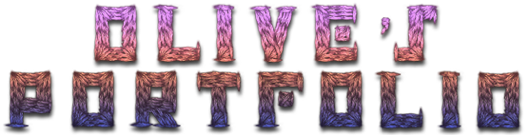
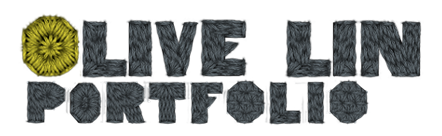
olive's design changes

diff --git a/app/assets/javascripts/galleries/view.js b/app/assets/javascripts/galleries/view.js
@@ -1,13 +1,25 @@
+var thumbnails = [];
+
 $(document).ready(function() {
+  //position album divs
+
+
   $(".album .thumbnail").hover(
     function () {
+      var preloads = $(this).attr('data-thumbnails').split(',');
+
+      for(var x=0;x<preloads.length;x++) {
+          thumbnails[x] = new Image()
+          thumbnails[x].src = preloads[x]
+      }
+
       //create dividers
       var numphotos = $(this).parent().attr('numphotos');
       var width = $(this).find('img').width()/numphotos;
       var height = $(this).height();
       console.log('style="height:'+height+'px;width:'+width+'px;');
       for (i=0; i<numphotos; i++) {
-        $(this).append('<div id="'+i+'" class="divider" onclick="" onmouseover="divider_hover($(this));" style="float:left;position:absolute; top:'+$(this).position().top+'px; left:'+(width*i+$(this).position().left)+'px; height:'+height+'px;width:'+width+'px;"></div>');
+        $(this).append('<div id="'+i+'" class="divider" onclick="window.location=$(this).parent().siblings(\'a\').attr(\'href\');" onmouseover="divider_hover($(this));" style="float:left;position:absolute; top:'+$(this).position().top+'px; left:'+(width*i+$(this).position().left)+'px; height:'+height+'px;width:'+width+'px;"></div>');
       }
     }, 
     function () {
@@ -21,10 +33,12 @@ $(document).ready(function() {
 
 function divider_hover(divider) {
     var divider_id = divider.attr('id');
-    var album_thumb = divider.parent().find('img');
+    var album_border = divider.siblings('.border');
+    console.log(album_border);
+    var album_thumb = album_border.find('img');
     var numphotos = divider.parent().parent().attr('numphotos');
-    var thumbnails = divider.parent().attr('data-thumbnails').split(',');
-    console.log(divider_id);
-    album_thumb.attr('src', thumbnails[divider_id]);
-    album_thumb.css('top', (divider.height()/2)-(album_thumb.height()/2));
+    album_thumb.stop(true, true).fadeTo(0, 0.6);
+    album_thumb.attr('src', thumbnails[divider_id].src);
+    album_border.css('top', (divider.height()/2)-(album_thumb.height()/2));
+    album_thumb.fadeTo(800, 1);
   }

diff --git a/app/assets/stylesheets/application.css b/app/assets/stylesheets/application.css
@@ -11,20 +11,31 @@
  *= require_self
  *= require_tree .
  */
-body {
-  background: rgb(255, 255, 255) url(bg.jpg) repeat scroll top left;
-  margin: 0pt;
+
+ p#contact {
+  margin-left: 100px;
+  padding-top: 32px;
+  clear:both;
+  color: rgb(55, 58, 60);
+  font-family: 'Julius Sans One', sans-serif;
+  font-size: 9pt;
+ }
+
+img#title {
+  margin-left:32px;
+  margin-bottom: 10px;
 }
 
 div#body {
-  width: 980px;
-
+  width: 1070px;
+  height: 100%;
   margin-left: auto;
   margin-right: auto;
 }
 
 div#main {
-  background: rgb(255, 255, 255) url(texture.jpg) repeat scroll top left;
+  width: 100%;
+  background: rgb(226, 227, 206) repeat scroll top left;
   overflow: hidden;
   word-wrap: break-word;
   text-align: left;
@@ -32,10 +43,11 @@ div#main {
   margin-bottom: 4px;
   -moz-border-radius: 15px;
   border-radius: 15px;
-  padding: 2%;
+  padding-top: 16%;
+  padding-bottom: 150px;
   color: rgb(192, 188, 155);
-  font-family: 'HoeflerText-Black', 'Hoefler Text', 'Times New Roman', serif;
-  font-size: 11px;
+  font-family: 'Montserrat Subrayada', sans-serif;
+  font-size: 12pt;
   font-weight: bold;
 }
 
@@ -62,19 +74,27 @@ div#main {
 
 .album {
   float:left;
-  background: rgba(0, 0, 0, 0.6);
-  height:200px;
-  padding:10px;
-  margin: 10px;
+  background: rgb(255, 255, 255) url(album_texture.png) repeat scroll top left;
+  height: 320px;
+  width: 260px;
+  padding: 1% 1% 0% 1%;
+  margin: 0% 0.5% 0% 0.5%;
 }
 
 .album .thumbnail {
-  height: 150px;
+  height: 90%;
   overflow: hidden;
 }
 
-.album .thumbnail img {
+.album .thumbnail .border {
+  margin:auto;
+  width:95%;
+  position:relative;
+  background: white;
+  padding: 4px;
+}
+
+.album .thumbnail .border img {
   margin:auto;
   width:100%;
-  position:relative;
 }

diff --git a/app/assets/stylesheets/scaffolds.css.scss b/app/assets/stylesheets/scaffolds.css.scss
@@ -1,9 +1,13 @@
+html, body{
+  height:100%;
+}
+
 body {
-  background-color: #fff;
+  background-color: #242729;
+  margin: 0pt;
   color: #333;
-  font-family: verdana, arial, helvetica, sans-serif;
+  font-family: 'Sacramento', cursive;
   font-size: 13px;
-  line-height: 18px;
 }
 
 p, ol, ul, td {
@@ -18,6 +22,17 @@ pre {
   font-size: 11px;
 }
 
+a#title {
+  color: #000;
+  &:visited {
+    color: #666;
+  }
+  &:hover {
+    color: #fff;
+    background-color: transparent;
+  }
+}
+
 a {
   color: #000;
   &:visited {
@@ -28,6 +43,8 @@ a {
     background-color: #000;
   }
 }
+
+
 
 div {
   &.field, &.actions {

diff --git a/app/assets/stylesheets/galleries.css.scss b/app/assets/stylesheets/galleries.css.scss
@@ -1,3 +1,11 @@
 // Place all the styles related to the galleries controller here.
 // They will automatically be included in application.css.
 // You can use Sass (SCSS) here: http://sass-lang.com/
+
+
+div.album {
+  a {
+    color: white;  
+    text-decoration:  none;
+  }
+}

diff --git a/app/assets/javascripts/application.js b/app/assets/javascripts/application.js
@@ -12,3 +12,5 @@
 //
 //= require jquery
 //= require jquery_ujs
+
+$("*").css('visibility','visible').fadeIn('slow');

diff --git a/app/controllers/albums_controller.rb b/app/controllers/albums_controller.rb
@@ -17,10 +17,10 @@ class AlbumsController < ApplicationController
       client = Picasa::Client.new(user_id: "olivelinlin@gmail.com")
       @photos = client.album.show(params[:id]).photos
 
-      thumbnails = []
-      @photos.each do |photo|
-        thumbnails << photo.media.thumbnails[1].url
-      end
+      # thumbnails = []
+      # @photos.each do |photo|
+      #   thumbnails << photo.media.thumbnails[1].url
+      # end
       # => Picasa::Presenter::AlbumList
     else
       @album = Album.find(params[:id])

diff --git a/app/controllers/galleries_controller.rb b/app/controllers/galleries_controller.rb
@@ -16,6 +16,7 @@ class GalleriesController < ApplicationController
     if params[:id] == "picasa"
       @client = Picasa::Client.new(user_id: "olivelinlin@gmail.com")
       @albums = @client.album.list.albums
+      @albums.delete(@albums.first)
       # => Picasa::Presenter::AlbumList
     else
       @gallery = Gallery.find(params[:id])
